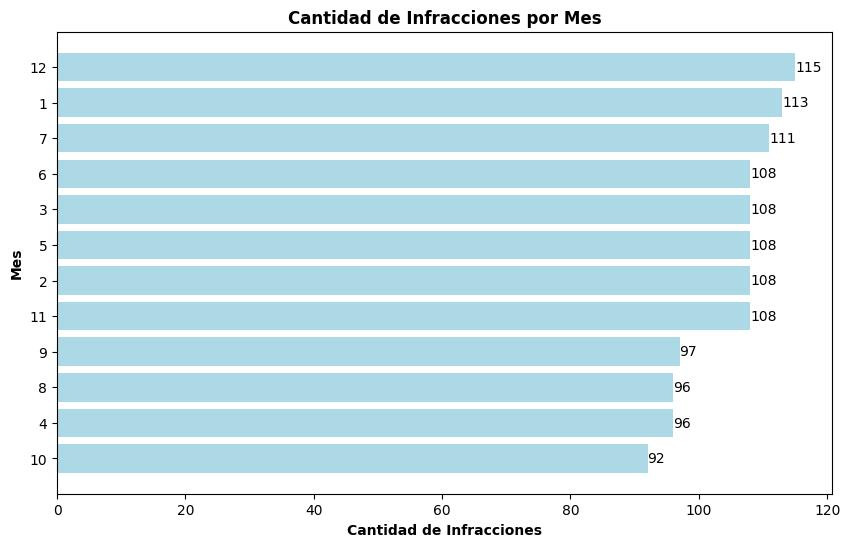
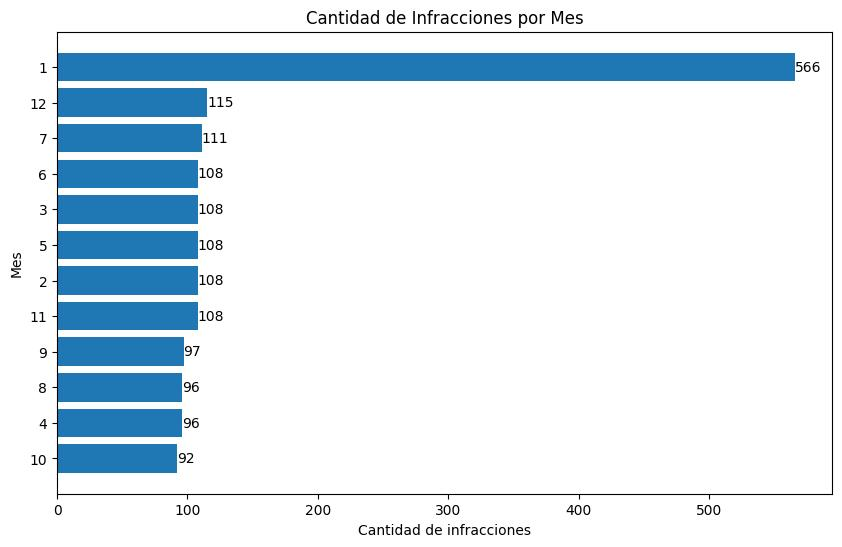
Ejercicio 05 - Corrige filtro de fecha en cantidad de infracciones por mes

diff --git a/CHANGELOG.md b/CHANGELOG.md
@@ -126,3 +126,21 @@ El dataset permite analizar el comportamiento de las infracciones de tránsito d
 
 
 ---
+
+## Correcciones TP 1:
+## Día 10 - Ejercicio 05: Correcciones y Ajustes Post-Entrega
+
+- **Corrección de Fechas**:
+Actualización de la normalización de fechas utilizando `format="mixed"` para soportar múltiples formatos de entrada.
+
+-**Trazabilidad Git**:
+Incorporación explícita de bloques `git add`, `git commit` y `git push` luego de cada ejercicio, siguiendo las observaciones de la devolución.
+
+-**Corrección de Visualizaciones**:
+Incorporación del gráfico faltante correspondiente al análisis de excesos de velocidad para registros con fecha `1932-01-01`.
+
+-**Ajuste de Análisis Mensual**:
+Corrección del gráfico de infracciones por mes eliminando el filtrado de fechas imputadas, respetando la consigna original.
+
+-**Documentación**:
+Actualización de observaciones, conclusiones y descripciones de gráficos para mantener coherencia con los resultados obtenidos.
